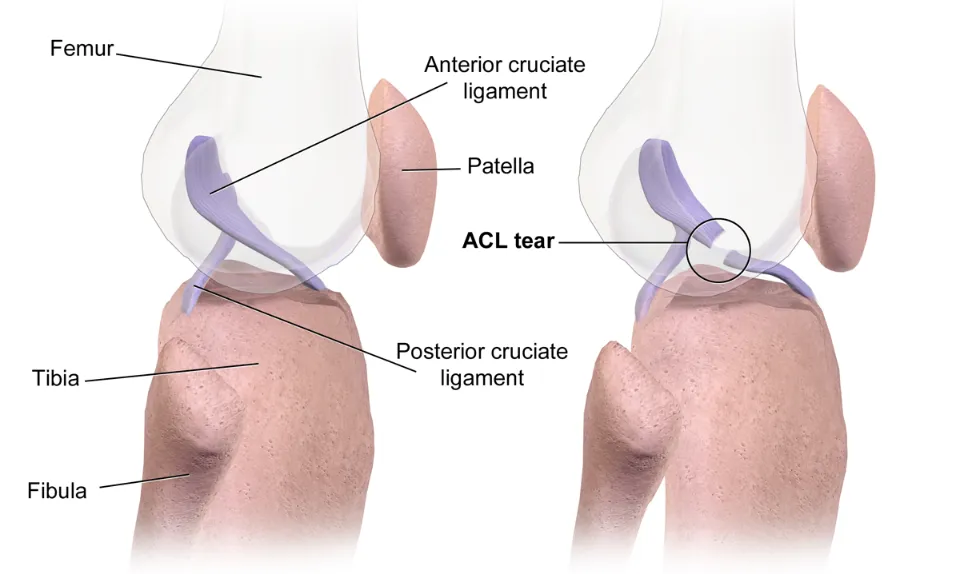
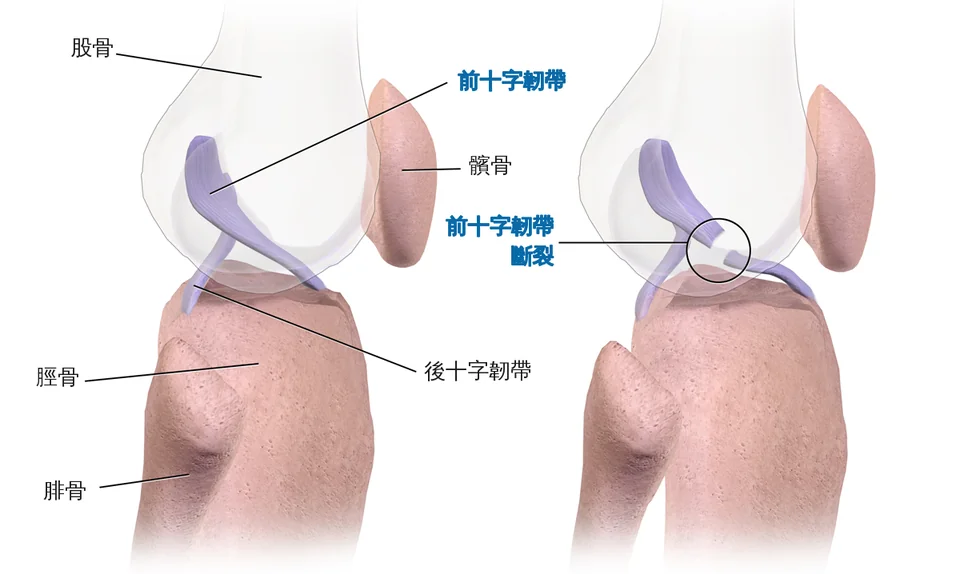
解剖圖的英文標註改成中文 (#139)
全站剩下 5 張帶英文標註的解剖圖，都緊接在說明構造的段落後面，
圖本身是在幫讀者看懂構造，所以保留原圖、只把標註換成中文：
- 半月板撕裂：膝關節側面圖（半月板、股骨、脛骨、髕骨等）
- 前十字韌帶斷裂：前、後十字韌帶與斷裂處
- 肩滑囊炎：肩關節剖面圖（肩峰下滑囊、棘上肌肌腱等 18 處）
- 髖關節夾擠與盂唇撕裂：髖臼（窩）、股骨頭（球），對上內文的比喻
- 轉移痛：內臟轉移痛分布圖

做法是只擦掉英文字的筆畫、保留指線，再把中文寫回原位置；
各篇的重點構造用網站的深天空藍加粗標出。用詞跟網站文章一致
（例如「腿後肌」「二頭肌長頭肌腱」）。
原圖為 CC BY 3.0／CC BY-SA 4.0，圖說保留作者與授權，並註明「標註由本站譯為中文」。

替代文字改寫後，建置程式依內容重算主題，兩篇騎車髖部文章的
「另一個角度」相關連結改連到髖關節夾擠那篇。

Claude-Session: https://claude.ai/code/session_01YZprTFwKrfig7RCc4hStG4

diff --git a/posts/fai-labral-tear.html b/posts/fai-labral-tear.html
@@ -6,7 +6,7 @@
 <meta name="theme-color" content="#FFFFFF">
 <title>髖關節夾擠與盂唇撕裂：深蹲、盤腿時鼠蹊卡住｜Sky 物理治療師</title>
 <meta name="description" content="深蹲、盤腿、坐深沙發時鼠蹊深處卡住刺痛，有時還喀一聲——這可能是髖關節夾擠合併盂唇撕裂。這篇延續一位瑜伽老師的故事，說明凸輪型與鉗夾型、為什麼影像異常很常見、運動治療怎麼做，以及關節鏡手術的角色。髖關節是一個球窩關節：大腿骨上端的「球」（股骨頭），嵌在骨盆的「窩」（髖臼）裡。">
-<meta name="keywords" content="髖關節夾擠,盂唇,鼠蹊,核心,髖與鼠蹊痛,髖關節與鼠蹊部疼痛,Hip and Groin Pain,物理治療,復健,衛教,Sky 物理治療師">
+<meta name="keywords" content="骨盆,髖關節夾擠,盂唇,鼠蹊,核心,髖與鼠蹊痛,髖關節與鼠蹊部疼痛,Hip and Groin Pain,物理治療,復健,衛教,Sky 物理治療師">
 <meta name="author" content="Sky 物理治療師">
 <meta name="robots" content="index, follow, max-image-preview:large, max-snippet:-1, max-video-preview:-1">
 <link rel="canonical" href="https://skythephysio.com/posts/fai-labral-tear">
@@ -27,7 +27,7 @@
 <meta property="og:image:height" content="630">
 <meta property="og:image:alt" content="髖關節夾擠與盂唇撕裂：深蹲、盤腿時鼠蹊卡住｜Sky 物理治療師">
 <meta property="article:published_time" content="2026-11-05">
-<meta property="article:modified_time" content="2026-11-18">
+<meta property="article:modified_time" content="2026-11-19">
 <meta property="article:section" content="髖與鼠蹊痛">
 <meta property="article:tag" content="髖與鼠蹊痛">
 <meta property="article:author" content="Sky 物理治療師">
@@ -44,7 +44,7 @@
   "mainEntityOfPage": {
     "@type": "MedicalWebPage",
     "@id": "https://skythephysio.com/posts/fai-labral-tear",
-    "lastReviewed": "2026-11-18",
+    "lastReviewed": "2026-11-19",
     "reviewedBy": {
       "@id": "https://skythephysio.com/#sky"
     },
@@ -63,10 +63,10 @@
   "headline": "髖關節夾擠與盂唇撕裂：深蹲、盤腿時鼠蹊卡住",
   "description": "深蹲、盤腿、坐深沙發時鼠蹊深處卡住刺痛，有時還喀一聲——這可能是髖關節夾擠合併盂唇撕裂。這篇延續一位瑜伽老師的故事，說明凸輪型與鉗夾型、為什麼影像異常很常見、運動治療怎麼做，以及關節鏡手術的角色。髖關節是一個球窩關節：大腿骨上端的「球」（股骨頭），嵌在骨盆的「窩」（髖臼）裡。",
   "datePublished": "2026-11-05",
-  "dateModified": "2026-11-18",
+  "dateModified": "2026-11-19",
   "articleSection": "髖與鼠蹊痛",
-  "keywords": "髖關節夾擠,盂唇,鼠蹊,核心,髖與鼠蹊痛,髖關節與鼠蹊部疼痛,Hip and Groin Pain,物理治療,復健,衛教,Sky 物理治療師",
-  "wordCount": 1618,
+  "keywords": "骨盆,髖關節夾擠,盂唇,鼠蹊,核心,髖與鼠蹊痛,髖關節與鼠蹊部疼痛,Hip and Groin Pain,物理治療,復健,衛教,Sky 物理治療師",
+  "wordCount": 1643,
   "timeRequired": "PT5M",
   "inLanguage": "zh-TW",
   "isAccessibleForFree": true,
@@ -82,7 +82,7 @@
       "url": "https://skythephysio.com/assets/photos/fai-labral-tear.webp",
       "width": 960,
       "height": 720,
-      "caption": "髖關節的解剖插圖"
+      "caption": "髖關節解剖圖，以中文標出髖臼（窩）、股骨頭（球）與骨盆各部位"
     }
   ],
   "url": "https://skythephysio.com/posts/fai-labral-tear",
@@ -92,6 +92,10 @@
     "alternateName": "Hip and Groin Pain"
   },
   "mentions": [
+    {
+      "@type": "Thing",
+      "name": "骨盆"
+    },
     {
       "@type": "Thing",
       "name": "髖關節夾擠"
@@ -290,7 +294,7 @@
       <button class="pp-share" type="button" onclick="shareOrCopy()" title="複製這篇文章的連結">複製連結</button>
     </div>
     <h1 class="post-title"><span class="ph">髖關節夾擠與盂唇撕裂：</span><span class="ph">深蹲、</span><span class="ph">盤腿時鼠蹊卡住</span></h1>
-    <p class="byline"><span>撰文・審閱：<a href="/about" rel="author">Sky 物理治療師</a>（國家高考合格）</span><span>最後審閱 <time datetime="2026-11-18">2026-11-18</time></span><a href="#refs">參考文獻 5 筆</a></p>
+    <p class="byline"><span>撰文・審閱：<a href="/about" rel="author">Sky 物理治療師</a>（國家高考合格）</span><span>最後審閱 <time datetime="2026-11-19">2026-11-19</time></span><a href="#refs">參考文獻 5 筆</a></p>
     <p class="lede">深蹲、盤腿、坐深沙發時鼠蹊深處卡住刺痛，有時還喀一聲——這可能是髖關節夾擠合併盂唇撕裂。這篇延續一位瑜伽老師的故事，說明凸輪型與鉗夾型、為什麼影像異常很常見、運動治療怎麼做，以及關節鏡手術的角色。</p>
     <section class="quick" id="quick" aria-labelledby="quick-h">
       <h2 id="quick-h">快速解答</h2>
@@ -331,7 +335,7 @@
     </aside>
     <div class="post-body">
 <p>髖關節是一個球窩關節：大腿骨上端的「球」（股骨頭），嵌在骨盆的「窩」（髖臼）裡。髖臼邊緣有一圈軟骨叫<strong>盂唇</strong>，像杯口的一圈吸盤，加深關節、密封關節液。</p>
-<figure><img src="/assets/photos/fai-labral-tear.webp" alt="髖關節的解剖插圖" width="960" height="720" loading="lazy" decoding="async"><figcaption>圖片：<a href="https://commons.wikimedia.org/wiki/File:Blausen_0488_HipAnatomy.png" target="_blank" rel="noopener nofollow">BruceBlaus</a>／<a href="https://creativecommons.org/licenses/by/3.0" target="_blank" rel="noopener nofollow">CC BY 3.0</a>／Wikimedia Commons</figcaption></figure>
+<figure><img src="/assets/photos/fai-labral-tear.webp" alt="髖關節解剖圖，以中文標出髖臼（窩）、股骨頭（球）與骨盆各部位" width="960" height="720" loading="lazy" decoding="async"><figcaption>圖片：<a href="https://commons.wikimedia.org/wiki/File:Blausen_0488_HipAnatomy.png" target="_blank" rel="noopener nofollow">BruceBlaus</a>／<a href="https://creativecommons.org/licenses/by/3.0" target="_blank" rel="noopener nofollow">CC BY 3.0</a>／Wikimedia Commons（標註由本站譯為中文）</figcaption></figure>
 <p><strong>股骨髖臼夾擠（femoroacetabular impingement, FAI）</strong>，是指股骨頭頸交界或髖臼邊緣的形狀多長了一點，讓髖關節在深彎、內轉時，球和窩的邊緣互相碰撞。反覆碰撞久了，夾在中間的盂唇與軟骨就可能被磨損、撕裂。</p>
 <p>上一篇那位瑜伽老師，做了六週臀部與核心訓練後卡卡感減少，但做深屈髖時仍會痛。醫師安排的 X 光與 MRI 顯示，右側股骨頭頸交界有凸輪型變化，前上方盂唇有小撕裂。她很緊張：「一定要開刀磨骨頭嗎？」</p>
 <h2 id="sec-1">兩種形狀，一種結果<a class="hash" href="#sec-1" aria-label="複製這個段落的連結">#</a></h2>
@@ -396,7 +400,7 @@
       <a href="/posts/hip-pain-overview">髖與鼠蹊痛：痛在關節裡、關節外，還是來自腰？<span>髖與鼠蹊痛</span></a>
       <a href="/posts/hip-osteoarthritis">髖關節炎：穿襪子、剪腳趾甲變困難的時候<span>髖與鼠蹊痛</span></a>
       <a href="/posts/cycling-hip-angle-mobility">髖關節活動度：騎乘姿勢的天花板<span>公路車 ・另一個角度</span></a>
-      <a href="/posts/shoulder-instability">肩關節不穩定：總覺得肩膀「快要掉出來」<span>肩膀痛 ・另一個角度</span></a>
+      <a href="/posts/scapular-control">肩胛骨的角色：肩膀動得順不順，看肩胛<span>肩膀痛 ・另一個角度</span></a>
       <a class="more-hub" href="/topics/hip-groin-pain">查看所有《髖與鼠蹊痛》文章<span>分類專頁</span></a>
     </nav>
   </article>

diff --git a/posts/meniscus-tear.html b/posts/meniscus-tear.html
@@ -27,7 +27,7 @@
 <meta property="og:image:height" content="630">
 <meta property="og:image:alt" content="半月板撕裂：卡住、蹲下會痛，一定要開刀修嗎？｜Sky 物理治療師">
 <meta property="article:published_time" content="2026-10-25">
-<meta property="article:modified_time" content="2026-11-18">
+<meta property="article:modified_time" content="2026-11-19">
 <meta property="article:section" content="膝蓋痛">
 <meta property="article:tag" content="膝蓋痛">
 <meta property="article:author" content="Sky 物理治療師">
@@ -44,7 +44,7 @@
   "mainEntityOfPage": {
     "@type": "MedicalWebPage",
     "@id": "https://skythephysio.com/posts/meniscus-tear",
-    "lastReviewed": "2026-11-18",
+    "lastReviewed": "2026-11-19",
     "reviewedBy": {
       "@id": "https://skythephysio.com/#sky"
     },
@@ -63,11 +63,11 @@
   "headline": "半月板撕裂：卡住、蹲下會痛，一定要開刀修嗎？",
   "description": "蹲下轉身會卡、關節線上按壓痛、偶爾膝蓋卡住伸不直——半月板的問題分外傷性與退化性，處理方式很不一樣。這篇跟著一位菜市場攤商，說明中年人的退化性撕裂為什麼先運動治療、哪些情況才需要手術，以及在家怎麼練。半月板是墊在股骨和脛骨之間的兩片 C 形軟骨，內側一片、外側一片。",
   "datePublished": "2026-10-25",
-  "dateModified": "2026-11-18",
+  "dateModified": "2026-11-19",
   "articleSection": "膝蓋痛",
   "keywords": "半月板撕裂,前十字韌帶,半月板,膝蓋痛,膝蓋疼痛,Knee Pain,物理治療,復健,衛教,Sky 物理治療師",
-  "wordCount": 1757,
-  "timeRequired": "PT5M",
+  "wordCount": 1780,
+  "timeRequired": "PT6M",
   "inLanguage": "zh-TW",
   "isAccessibleForFree": true,
   "image": [
@@ -82,7 +82,7 @@
       "url": "https://skythephysio.com/assets/photos/meniscus-tear.webp",
       "width": 960,
       "height": 720,
-      "caption": "膝關節與半月板的解剖插圖"
+      "caption": "膝關節側面解剖圖，以中文標出股骨、脛骨、髕骨與半月板的位置"
     }
   ],
   "url": "https://skythephysio.com/posts/meniscus-tear",
@@ -274,11 +274,11 @@
   <article class="post-page">
     <nav class="crumb" aria-label="breadcrumb"><a href="/">首頁</a> › <a href="/topics/knee-pain">膝蓋痛</a> › <span>半月板撕裂：卡住、蹲下會痛，一定要開刀修嗎？</span></nav>
     <div class="meta">
-      <time class="date" datetime="2026-10-25">2026-10-25</time><span class="cat">膝蓋痛</span><span>約 5 分鐘</span>
+      <time class="date" datetime="2026-10-25">2026-10-25</time><span class="cat">膝蓋痛</span><span>約 6 分鐘</span>
       <button class="pp-share" type="button" onclick="shareOrCopy()" title="複製這篇文章的連結">複製連結</button>
     </div>
     <h1 class="post-title"><span class="ph">半月板撕裂：</span><span class="ph">卡住、</span><span class="ph">蹲下會痛，</span><span class="ph">一定要開刀修嗎？</span></h1>
-    <p class="byline"><span>撰文・審閱：<a href="/about" rel="author">Sky 物理治療師</a>（國家高考合格）</span><span>最後審閱 <time datetime="2026-11-18">2026-11-18</time></span><a href="#refs">參考文獻 4 筆</a></p>
+    <p class="byline"><span>撰文・審閱：<a href="/about" rel="author">Sky 物理治療師</a>（國家高考合格）</span><span>最後審閱 <time datetime="2026-11-19">2026-11-19</time></span><a href="#refs">參考文獻 4 筆</a></p>
     <p class="lede">蹲下轉身會卡、關節線上按壓痛、偶爾膝蓋卡住伸不直——半月板的問題分外傷性與退化性，處理方式很不一樣。這篇跟著一位菜市場攤商，說明中年人的退化性撕裂為什麼先運動治療、哪些情況才需要手術，以及在家怎麼練。</p>
     <section class="quick" id="quick" aria-labelledby="quick-h">
       <h2 id="quick-h">快速解答</h2>
@@ -320,7 +320,7 @@
     </aside>
     <div class="post-body">
 <p>半月板是墊在股骨和脛骨之間的兩片 C 形軟骨，內側一片、外側一片。它像一對吸震墊片，讓圓圓的股骨和平平的脛骨能夠貼合，把壓力分散開來。</p>
-<figure><img src="/assets/photos/meniscus-tear.webp" alt="膝關節與半月板的解剖插圖" width="960" height="720" loading="lazy" decoding="async"><figcaption>圖片：<a href="https://commons.wikimedia.org/wiki/File:Blausen_0597_KneeAnatomy_Side.png" target="_blank" rel="noopener nofollow">BruceBlaus. When using this image in external sources it can</a>／<a href="https://creativecommons.org/licenses/by/3.0" target="_blank" rel="noopener nofollow">CC BY 3.0</a>／Wikimedia Commons</figcaption></figure>
+<figure><img src="/assets/photos/meniscus-tear.webp" alt="膝關節側面解剖圖，以中文標出股骨、脛骨、髕骨與半月板的位置" width="960" height="720" loading="lazy" decoding="async"><figcaption>圖片：<a href="https://commons.wikimedia.org/wiki/File:Blausen_0597_KneeAnatomy_Side.png" target="_blank" rel="noopener nofollow">BruceBlaus</a>／<a href="https://creativecommons.org/licenses/by/3.0" target="_blank" rel="noopener nofollow">CC BY 3.0</a>／Wikimedia Commons（標註由本站譯為中文）</figcaption></figure>
 <p>一位五十四歲的阿姨，在彰化的菜市場賣菜，每天清晨三點蹲著整理菜、搬籃子，一蹲就是兩個小時。半年前開始右膝內側痛，蹲下時尤其明顯，偶爾轉身會覺得膝蓋裡面「卡一下」。MRI 報告寫著「內側半月板後角退化性撕裂、輕度退化性關節炎」。她問：「醫生說可以考慮關節鏡把破掉的修掉，我要開嗎？」</p>
 <h2 id="sec-1">外傷性和退化性，是兩回事<a class="hash" href="#sec-1" aria-label="複製這個段落的連結">#</a></h2>
 <p>《臨床骨科復健》在半月板一章整理了幾個關鍵概念：</p>

diff --git a/posts/shoulder-bursitis.html b/posts/shoulder-bursitis.html
@@ -27,7 +27,7 @@
 <meta property="og:image:height" content="630">
 <meta property="og:image:alt" content="肩滑囊炎：過頭動作時那股悶悶的痛｜Sky 物理治療師">
 <meta property="article:published_time" content="2026-02-27">
-<meta property="article:modified_time" content="2026-11-18">
+<meta property="article:modified_time" content="2026-11-19">
 <meta property="article:section" content="肩膀痛">
 <meta property="article:tag" content="肩膀痛">
 <meta property="article:author" content="Sky 物理治療師">
@@ -44,7 +44,7 @@
   "mainEntityOfPage": {
     "@type": "MedicalWebPage",
     "@id": "https://skythephysio.com/posts/shoulder-bursitis",
-    "lastReviewed": "2026-11-18",
+    "lastReviewed": "2026-11-19",
     "reviewedBy": {
       "@id": "https://skythephysio.com/#sky"
     },
@@ -63,10 +63,10 @@
   "headline": "肩滑囊炎：過頭動作時那股悶悶的痛",
   "description": "肩膀外側悶悶地痛、過頭就卡、側睡壓到會痛，很可能是肩峰下滑囊在發炎。這篇跟著一位油漆師傅，說明滑囊為什麼被夾、打針的角色是什麼、和鈣化性肌腱炎怎麼分，以及多久會好。滑囊（bursa）是關節周邊一個個像小水袋的構造，作用是減少肌腱、骨頭之間的摩擦，讓動作滑順。",
   "datePublished": "2026-02-27",
-  "dateModified": "2026-11-18",
+  "dateModified": "2026-11-19",
   "articleSection": "肩膀痛",
   "keywords": "肩滑囊炎,旋轉肌袖,肩滑囊,肩胛,肩膀痛,肩膀疼痛,Shoulder Pain,物理治療,復健,衛教,Sky 物理治療師",
-  "wordCount": 2245,
+  "wordCount": 2272,
   "timeRequired": "PT7M",
   "inLanguage": "zh-TW",
   "isAccessibleForFree": true,
@@ -82,7 +82,7 @@
       "url": "https://skythephysio.com/assets/photos/shoulder-bursitis.webp",
       "width": 960,
       "height": 702,
-      "caption": "肩關節與肩峰下滑囊的解剖插圖"
+      "caption": "肩關節剖面解剖圖，以中文標出肩峰下滑囊、肩峰、棘上肌肌腱與肱骨頭的位置"
     }
   ],
   "url": "https://skythephysio.com/posts/shoulder-bursitis",
@@ -298,7 +298,7 @@
       <button class="pp-share" type="button" onclick="shareOrCopy()" title="複製這篇文章的連結">複製連結</button>
     </div>
     <h1 class="post-title"><span class="ph">肩滑囊炎：</span><span class="ph">過頭動作時那股悶悶的痛</span></h1>
-    <p class="byline"><span>撰文・審閱：<a href="/about" rel="author">Sky 物理治療師</a>（國家高考合格）</span><span>最後審閱 <time datetime="2026-11-18">2026-11-18</time></span><a href="#refs">參考文獻 4 筆</a></p>
+    <p class="byline"><span>撰文・審閱：<a href="/about" rel="author">Sky 物理治療師</a>（國家高考合格）</span><span>最後審閱 <time datetime="2026-11-19">2026-11-19</time></span><a href="#refs">參考文獻 4 筆</a></p>
     <p class="lede">肩膀外側悶悶地痛、過頭就卡、側睡壓到會痛，很可能是肩峰下滑囊在發炎。這篇跟著一位油漆師傅，說明滑囊為什麼被夾、打針的角色是什麼、和鈣化性肌腱炎怎麼分，以及多久會好。</p>
     <section class="quick" id="quick" aria-labelledby="quick-h">
       <h2 id="quick-h">快速解答</h2>
@@ -342,7 +342,7 @@
     </aside>
     <div class="post-body">
 <p>滑囊（bursa）是關節周邊一個個像小水袋的構造，作用是減少肌腱、骨頭之間的摩擦，讓動作滑順。肩膀裡有一個重要的滑囊叫肩峰下滑囊，夾在肩峰（肩膀上方那塊骨頭屋簷）和旋轉肌袖之間。當它被反覆摩擦、擠壓而發炎，就是<strong>肩滑囊炎（bursitis）</strong>。</p>
-<figure><img src="/assets/photos/shoulder-bursitis.webp" alt="肩關節與肩峰下滑囊的解剖插圖" width="960" height="702" loading="lazy" decoding="async"><figcaption>圖片：<a href="https://commons.wikimedia.org/wiki/File:914_Shoulder_Joint.jpg" target="_blank" rel="noopener nofollow">OpenStax College</a>／<a href="https://creativecommons.org/licenses/by/3.0" target="_blank" rel="noopener nofollow">CC BY 3.0</a>／Wikimedia Commons</figcaption></figure>
+<figure><img src="/assets/photos/shoulder-bursitis.webp" alt="肩關節剖面解剖圖，以中文標出肩峰下滑囊、肩峰、棘上肌肌腱與肱骨頭的位置" width="960" height="702" loading="lazy" decoding="async"><figcaption>圖片：<a href="https://commons.wikimedia.org/wiki/File:914_Shoulder_Joint.jpg" target="_blank" rel="noopener nofollow">OpenStax College</a>／<a href="https://creativecommons.org/licenses/by/3.0" target="_blank" rel="noopener nofollow">CC BY 3.0</a>／Wikimedia Commons（標註由本站譯為中文）</figcaption></figure>
 <p>一位五十六歲的油漆師傅，在嘉義工作。上個月接了一間透天厝，三層樓的天花板全部要重新刷，他連續十天每天舉著滾筒刷八小時。完工後第三天，右肩外側開始悶痛，舉手刷牙都覺得卡，晚上壓到右邊就醒。他說：「以前也刷過天花板，從來沒這樣。」</p>
 <h2 id="sec-1">它長什麼樣子<a class="hash" href="#sec-1" aria-label="複製這個段落的連結">#</a></h2>
 <ul><li>肩膀外側、上方一股<strong>悶悶、深層的痛</strong>，有時延伸到上臂外側</li><li>過頭、往外抬手時加重，手舉到中段角度特別痛</li><li>側睡壓到會痛</li><li>常和肩夾擠、旋轉肌袖問題<strong>一起出現</strong>——它們往往是同一個「空間被擠壓」故事的不同角色</li></ul>

diff --git a/posts/acl-injury-rehab.html b/posts/acl-injury-rehab.html
@@ -27,7 +27,7 @@
 <meta property="og:image:height" content="630">
 <meta property="og:image:alt" content="前十字韌帶斷裂：要不要開刀，以及復健怎麼走｜Sky 物理治療師">
 <meta property="article:published_time" content="2026-10-23">
-<meta property="article:modified_time" content="2026-11-18">
+<meta property="article:modified_time" content="2026-11-19">
 <meta property="article:section" content="膝蓋痛">
 <meta property="article:tag" content="膝蓋痛">
 <meta property="article:author" content="Sky 物理治療師">
@@ -44,7 +44,7 @@
   "mainEntityOfPage": {
     "@type": "MedicalWebPage",
     "@id": "https://skythephysio.com/posts/acl-injury-rehab",
-    "lastReviewed": "2026-11-18",
+    "lastReviewed": "2026-11-19",
     "reviewedBy": {
       "@id": "https://skythephysio.com/#sky"
     },
@@ -63,10 +63,10 @@
   "headline": "前十字韌帶斷裂：要不要開刀，以及復健怎麼走",
   "description": "急停轉身「啪」一聲、膝蓋很快腫起來，常是前十字韌帶斷了。這篇跟著一位打羽球的業務，說明為什麼女性風險較高、開刀與不開刀怎麼選、術前復健為什麼重要，以及術後各階段的重點。羽球場上一個急停回身、籃球場上一次落地、足球場上一個切入，膝蓋突然「啪」一聲、往內一軟。",
   "datePublished": "2026-10-23",
-  "dateModified": "2026-11-18",
+  "dateModified": "2026-11-19",
   "articleSection": "膝蓋痛",
   "keywords": "前十字韌帶斷裂,前十字韌帶,半月板,膝蓋痛,膝蓋疼痛,Knee Pain,物理治療,復健,衛教,Sky 物理治療師",
-  "wordCount": 1888,
+  "wordCount": 1897,
   "timeRequired": "PT6M",
   "inLanguage": "zh-TW",
   "isAccessibleForFree": true,
@@ -278,7 +278,7 @@
       <button class="pp-share" type="button" onclick="shareOrCopy()" title="複製這篇文章的連結">複製連結</button>
     </div>
     <h1 class="post-title"><span class="ph">前十字韌帶斷裂：</span><span class="ph">要不要開刀，</span><span class="ph">以及復健怎麼走</span></h1>
-    <p class="byline"><span>撰文・審閱：<a href="/about" rel="author">Sky 物理治療師</a>（國家高考合格）</span><span>最後審閱 <time datetime="2026-11-18">2026-11-18</time></span><a href="#refs">參考文獻 4 筆</a></p>
+    <p class="byline"><span>撰文・審閱：<a href="/about" rel="author">Sky 物理治療師</a>（國家高考合格）</span><span>最後審閱 <time datetime="2026-11-19">2026-11-19</time></span><a href="#refs">參考文獻 4 筆</a></p>
     <p class="lede">急停轉身「啪」一聲、膝蓋很快腫起來，常是前十字韌帶斷了。這篇跟著一位打羽球的業務，說明為什麼女性風險較高、開刀與不開刀怎麼選、術前復健為什麼重要，以及術後各階段的重點。</p>
     <section class="quick" id="quick" aria-labelledby="quick-h">
       <h2 id="quick-h">快速解答</h2>
@@ -320,7 +320,7 @@
     </aside>
     <div class="post-body">
 <p>羽球場上一個急停回身、籃球場上一次落地、足球場上一個切入，膝蓋突然「啪」一聲、往內一軟，接著幾個小時內腫成一顆饅頭——這是<strong>前十字韌帶（anterior cruciate ligament, ACL）斷裂</strong>最典型的樣子。</p>
-<figure><img src="/assets/photos/acl-injury-rehab.webp" alt="膝關節前、後十字韌帶的位置，並圈出前十字韌帶斷裂處的示意插圖" width="960" height="574" loading="lazy" decoding="async"><figcaption>圖片：<a href="https://commons.wikimedia.org/wiki/File:ACL_Tear.png" target="_blank" rel="noopener nofollow">BruceBlaus</a>／<a href="https://creativecommons.org/licenses/by-sa/4.0" target="_blank" rel="noopener nofollow">CC BY-SA 4.0</a>／Wikimedia Commons</figcaption></figure>
+<figure><img src="/assets/photos/acl-injury-rehab.webp" alt="膝關節前、後十字韌帶的位置，並圈出前十字韌帶斷裂處的示意插圖" width="960" height="574" loading="lazy" decoding="async"><figcaption>圖片：<a href="https://commons.wikimedia.org/wiki/File:ACL_Tear.png" target="_blank" rel="noopener nofollow">BruceBlaus</a>／<a href="https://creativecommons.org/licenses/by-sa/4.0" target="_blank" rel="noopener nofollow">CC BY-SA 4.0</a>／Wikimedia Commons（標註由本站譯為中文）</figcaption></figure>
 <p>一位二十八歲的上班族，在台北做業務，週末打羽球雙打。上個月一個網前急停後往後撤，右腳落地時膝蓋往內一扭，她聽到「啪」一聲，當下站不起來，兩小時內膝蓋整個腫起來。MRI 確定是前十字韌帶完全斷裂，半月板沒事。骨科醫師說可以開刀重建，也可以先復健看看。她來找我時問：「我一定要開刀嗎？開完多久可以回去打球？」</p>
 <h2 id="sec-1">前十字韌帶在做什麼？<a class="hash" href="#sec-1" aria-label="複製這個段落的連結">#</a></h2>
 <p>前十字韌帶在膝關節裡面，從股骨後方斜斜地接到脛骨前方，主要負責<strong>不讓小腿骨往前滑出去</strong>，也控制膝蓋的旋轉。急停、轉身、落地時，它是膝蓋最重要的「煞車線」。</p>

diff --git a/posts/tps-referred-pain-mechanisms.html b/posts/tps-referred-pain-mechanisms.html
@@ -27,7 +27,7 @@
 <meta property="og:image:height" content="630">
 <meta property="og:image:alt" content="轉移痛：為什麼痛感出現在別的地方｜Sky 物理治療師">
 <meta property="article:published_time" content="2026-07-11">
-<meta property="article:modified_time" content="2026-11-08">
+<meta property="article:modified_time" content="2026-11-19">
 <meta property="article:section" content="疼痛科學">
 <meta property="article:tag" content="疼痛科學">
 <meta property="article:author" content="Sky 物理治療師">
@@ -44,7 +44,7 @@
   "mainEntityOfPage": {
     "@type": "MedicalWebPage",
     "@id": "https://skythephysio.com/posts/tps-referred-pain-mechanisms",
-    "lastReviewed": "2026-11-08",
+    "lastReviewed": "2026-11-19",
     "reviewedBy": {
       "@id": "https://skythephysio.com/#sky"
     },
@@ -63,10 +63,10 @@
   "headline": "轉移痛：為什麼痛感出現在別的地方",
   "description": "肩膀的問題卻痛在手臂、下巴的問題卻像牙痛——這種「痛在別處」的現象非常常見，不認識它，可能導致誤診甚至白挨一刀。激痛點最令人困惑的地方，就是它常常不痛在原地。理解這件事，能避免很多誤判。因為認不出來，代價可能很大。很多人的痛被當成別的問題處理了很久，其實來源在另一條肌肉。",
   "datePublished": "2026-07-11",
-  "dateModified": "2026-11-08",
+  "dateModified": "2026-11-19",
   "articleSection": "疼痛科學",
   "keywords": "轉移痛,橫膈,疼痛科學,Pain Science,物理治療,復健,衛教,Sky 物理治療師",
-  "wordCount": 889,
+  "wordCount": 920,
   "timeRequired": "PT3M",
   "inLanguage": "zh-TW",
   "isAccessibleForFree": true,
@@ -82,7 +82,7 @@
       "url": "https://skythephysio.com/assets/photos/tps-referred-pain-mechanisms.webp",
       "width": 960,
       "height": 674,
-      "caption": "內臟轉移痛分布的示意插圖"
+      "caption": "內臟轉移痛分布圖，以中文標出心臟、肝與膽囊、腎臟等內臟各自轉移到體表的位置"
     }
   ],
   "url": "https://skythephysio.com/posts/tps-referred-pain-mechanisms",
@@ -250,7 +250,7 @@
       <button class="pp-share" type="button" onclick="shareOrCopy()" title="複製這篇文章的連結">複製連結</button>
     </div>
     <h1 class="post-title"><span class="ph">轉移痛：</span><span class="ph">為什麼痛感出現在別的地方</span></h1>
-    <p class="byline"><span>撰文・審閱：<a href="/about" rel="author">Sky 物理治療師</a>（國家高考合格）</span><span>最後審閱 <time datetime="2026-11-08">2026-11-08</time></span><a href="#refs">參考文獻 1 筆</a></p>
+    <p class="byline"><span>撰文・審閱：<a href="/about" rel="author">Sky 物理治療師</a>（國家高考合格）</span><span>最後審閱 <time datetime="2026-11-19">2026-11-19</time></span><a href="#refs">參考文獻 1 筆</a></p>
     <p class="lede">肩膀的問題卻痛在手臂、下巴的問題卻像牙痛——這種「痛在別處」的現象非常常見，不認識它，可能導致誤診甚至白挨一刀。</p>
     <section class="quick" id="quick" aria-labelledby="quick-h">
       <h2 id="quick-h">快速解答</h2>
@@ -282,7 +282,7 @@
     </aside>
     <div class="post-body">
 <p>激痛點最令人困惑的地方，就是它常常不痛在原地。理解這件事，能避免很多誤判。</p>
-<figure><img src="/assets/photos/tps-referred-pain-mechanisms.webp" alt="內臟轉移痛分布的示意插圖" width="960" height="674" loading="lazy" decoding="async"><figcaption>圖片：<a href="https://commons.wikimedia.org/wiki/File:1506_Referred_Pain_Chart.jpg" target="_blank" rel="noopener nofollow">OpenStax College</a>／<a href="https://creativecommons.org/licenses/by/3.0" target="_blank" rel="noopener nofollow">CC BY 3.0</a>／Wikimedia Commons</figcaption></figure>
+<figure><img src="/assets/photos/tps-referred-pain-mechanisms.webp" alt="內臟轉移痛分布圖，以中文標出心臟、肝與膽囊、腎臟等內臟各自轉移到體表的位置" width="960" height="674" loading="lazy" decoding="async"><figcaption>圖片：<a href="https://commons.wikimedia.org/wiki/File:1506_Referred_Pain_Chart.jpg" target="_blank" rel="noopener nofollow">OpenStax College</a>／<a href="https://creativecommons.org/licenses/by/3.0" target="_blank" rel="noopener nofollow">CC BY 3.0</a>／Wikimedia Commons（標註由本站譯為中文）</figcaption></figure>
 <h2 id="sec-1">為什麼認識「痛在別處」這麼重要？<a class="hash" href="#sec-1" aria-label="複製這個段落的連結">#</a></h2>
 <p>因為認不出來，代價可能很大。研究特別指出，缺乏這方面的認識可能導致：</p>
 <ul><li>錯誤診斷</li><li>治療方向不理想</li><li><strong>不必要的手術</strong></li><li>過度的固定、臥床與醫療化</li></ul>

diff --git a/posts/cycling-hip-angle-mobility.html b/posts/cycling-hip-angle-mobility.html
@@ -399,8 +399,8 @@
       <h3>延伸閱讀</h3>
       <a href="/posts/cycling-aero-position-tradeoffs">空力姿勢的取捨：更低不一定更快<span>公路車</span></a>
       <a href="/posts/cycling-posterior-chain">後側鏈：臀肌、腿後肌與你沒用到的一半功率<span>公路車</span></a>
+      <a href="/posts/fai-labral-tear">髖關節夾擠與盂唇撕裂：深蹲、盤腿時鼠蹊卡住<span>髖與鼠蹊痛 ・另一個角度</span></a>
       <a href="/posts/scapular-control">肩胛骨的角色：肩膀動得順不順，看肩胛<span>肩膀痛 ・另一個角度</span></a>
-      <a href="/posts/deep-core-not-situps">核心不是仰臥起坐：認識真正在保護你腰的深層核心<span>下背痛 ・另一個角度</span></a>
       <a class="more-hub" href="/topics/cycling">查看所有《公路車》文章<span>分類專頁</span></a>
     </nav>
   </article>

diff --git a/posts/cycling-crank-length.html b/posts/cycling-crank-length.html
@@ -403,7 +403,7 @@
       <a href="/posts/cycling-cadence-explained">迴轉速該用多少？高轉與低轉的取捨<span>公路車</span></a>
       <a href="/posts/cycling-saddle-height">座墊高度：一個影響膝蓋、下背與功率的關鍵數字<span>公路車</span></a>
       <a href="/posts/hip-mobility-back-pain">腰痛，為什麼要練髖？髖不動，腰就替它受累<span>下背痛 ・另一個角度</span></a>
-      <a href="/posts/hip-osteoarthritis">髖關節炎：穿襪子、剪腳趾甲變困難的時候<span>髖與鼠蹊痛 ・另一個角度</span></a>
+      <a href="/posts/fai-labral-tear">髖關節夾擠與盂唇撕裂：深蹲、盤腿時鼠蹊卡住<span>髖與鼠蹊痛 ・另一個角度</span></a>
       <a class="more-hub" href="/topics/cycling">查看所有《公路車》文章<span>分類專頁</span></a>
     </nav>
   </article>
